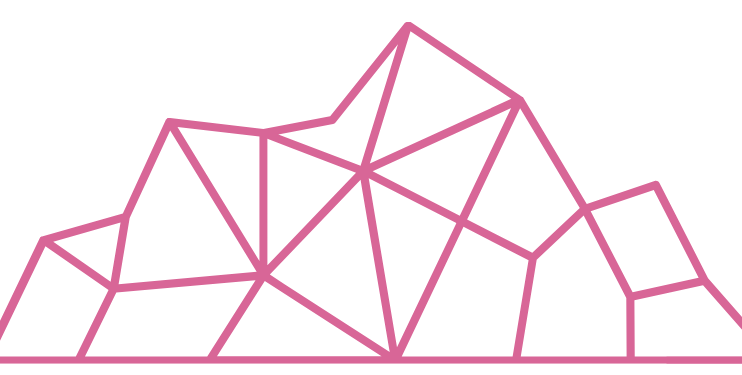
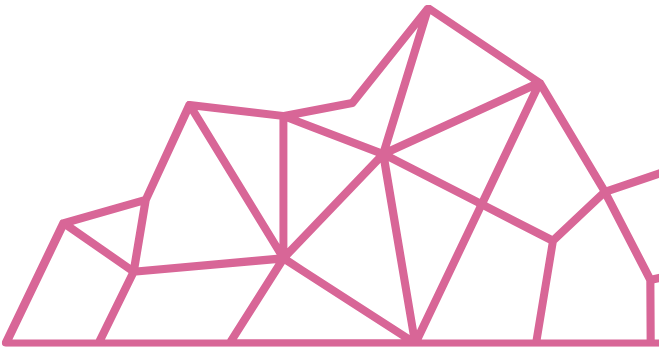
Founder Cards: closed mountain corners, Kennedy headshot + LinkedIn in personal note

Changed region(s): [[0.0, 0.0, 1.0, 1.0]]

diff --git a/public/founder-cards.html b/public/founder-cards.html
@@ -294,9 +294,24 @@
   .thanks .tu { height: 16px; filter: brightness(0) invert(1); opacity: .85; }
 
   .pnote { background: white; border-top: 1px solid #eceaf4; }
+  .pnote .wrap {
+    display: flex;
+    gap: 24px;
+    align-items: flex-start;
+    text-align: left;
+  }
+  .pnote .headshot {
+    width: 78px; height: 78px;
+    border-radius: 50%;
+    object-fit: cover;
+    flex: none;
+    border: 3px solid var(--pink-soft);
+    box-shadow: 0 4px 14px rgba(17,4,101,.12);
+  }
+  .pnote .rule { margin: 12px 0; }
   .pnote p {
     max-width: 520px;
-    margin: 6px auto 0;
+    margin: 6px 0 0;
     font-size: 16px;
     line-height: 1.75;
     font-style: italic;
@@ -307,6 +322,11 @@
     font-style: normal;
     font-weight: 600;
     color: var(--navy);
+  }
+  .pnote .sig a {
+    color: var(--navy);
+    text-decoration: none;
+    border-bottom: 2px solid var(--pink);
   }
 
   footer { text-align: center; padding: 26px; font-size: 12px; color: #9a97ab; }
@@ -432,6 +452,8 @@
 
 <section class="pnote">
   <div class="wrap">
+    <img class="headshot" src="kennedy-loper.webp" alt="Kennedy Loper">
+    <div>
     <div class="eyebrow">A Personal Note</div>
     <div class="rule"></div>
     <p>
@@ -441,7 +463,8 @@
       anything, a place where I’m inspired every day to work harder and dream bigger
       because of the incredible founders in this program.
     </p>
-    <p class="sig">— Kennedy Loper</p>
+    <p class="sig">— <a href="https://www.linkedin.com/in/kennedyloper/" target="_blank" rel="noopener">Kennedy Loper</a></p>
+    </div>
   </div>
 </section>
 
